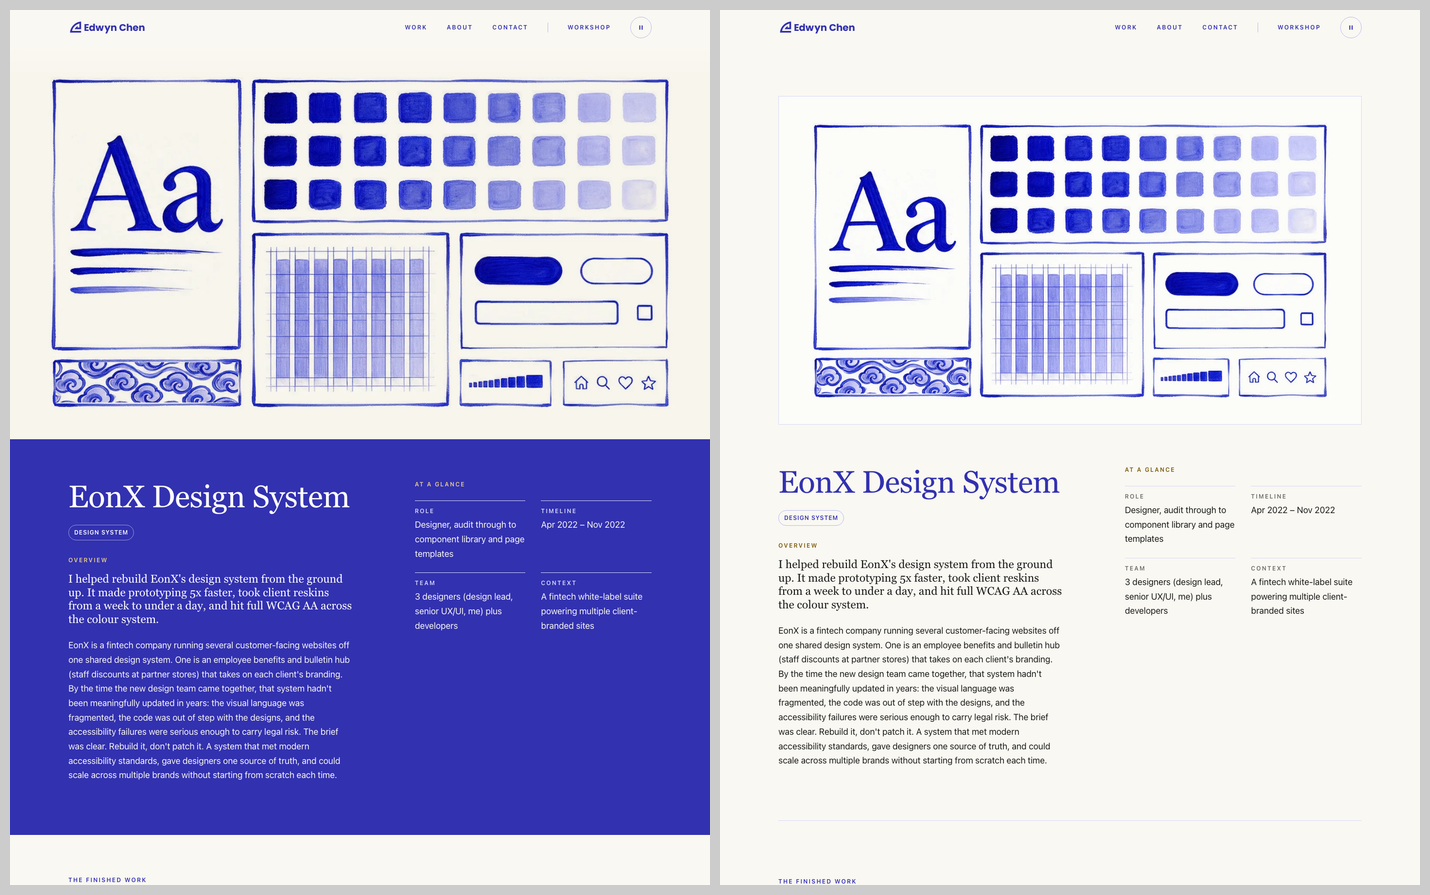
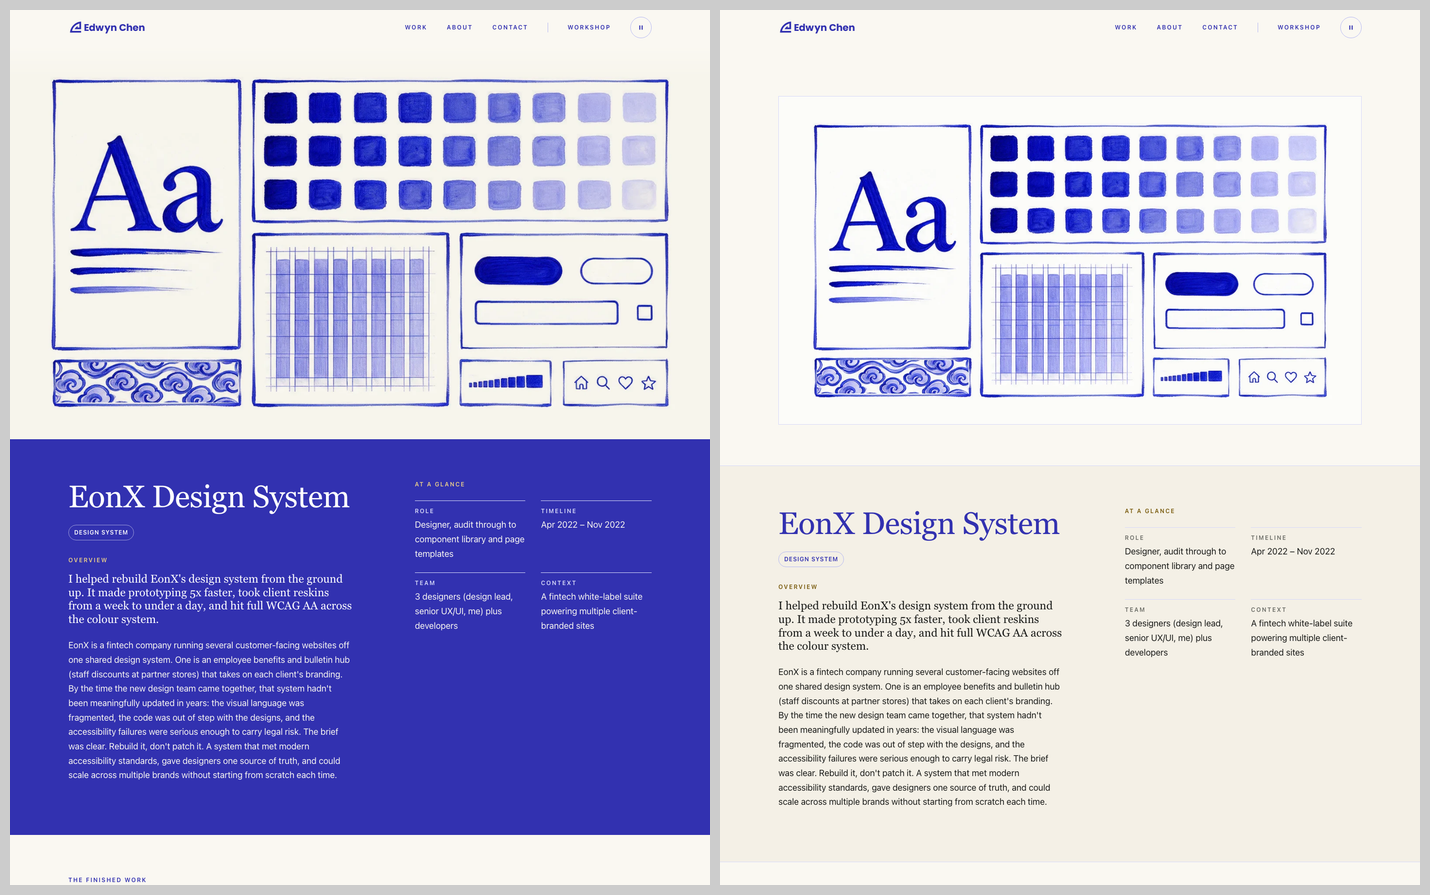
feat: round 12e — coffee pools to the low side when tipped, neutral case study band, Outcomes first

Changed region(s): [[0.5231, 0.5128, 0.7385, 0.905], [0.7692, 0.543, 0.9538, 0.7542], [0.5538, 0.9654, 0.5846, 0.9955]]

diff --git a/docs/HANDOFF.md b/docs/HANDOFF.md
@@ -183,6 +183,12 @@ latency, plus GPU load that hurts weaker devices. Fixes:
 - Case studies: no flora on any screen (banksia removed; the flora no-crop test now checks the Workshop). The phone section tabs sit flush on the strip's bottom border (no bottom padding).
 - Case study alternative for Ed: `?cs=neutral` (preview switch in `work/[slug].astro`): the hero framed in the column, the band as paper with cobalt type, a hairline under it. Compare: `docs/review/round12/case-study-band-vs-neutral.png`. Remove the switch once Ed picks.
 
+## Round 12e (2026-10-16)
+
+- Coffee: as the cup tips, the pool sinks towards the low rim (|sin tilt|) and narrows to the tipped mouth (cos tilt), always level, so the coffee gathers on the low side and the inside wall shows on the high side (CSS trig in `CoffeeCup.astro`; without trig support it stays the upright pool).
+- Neutral case study preview (`?cs=neutral`): the info band stays, in porcelain cream (`--surface-sunken`) with hairlines above and below, instead of cobalt; the hero framed in the column.
+- Every case study now opens with Outcomes, then My role, Problem, Goals, Process, Learnings, Next steps.
+
 ## Next steps
 
 Everything through round 12 is committed and pushed to GitHub (`main`) and live on Vercel: https://edwynchen-portfolio.vercel.app.
